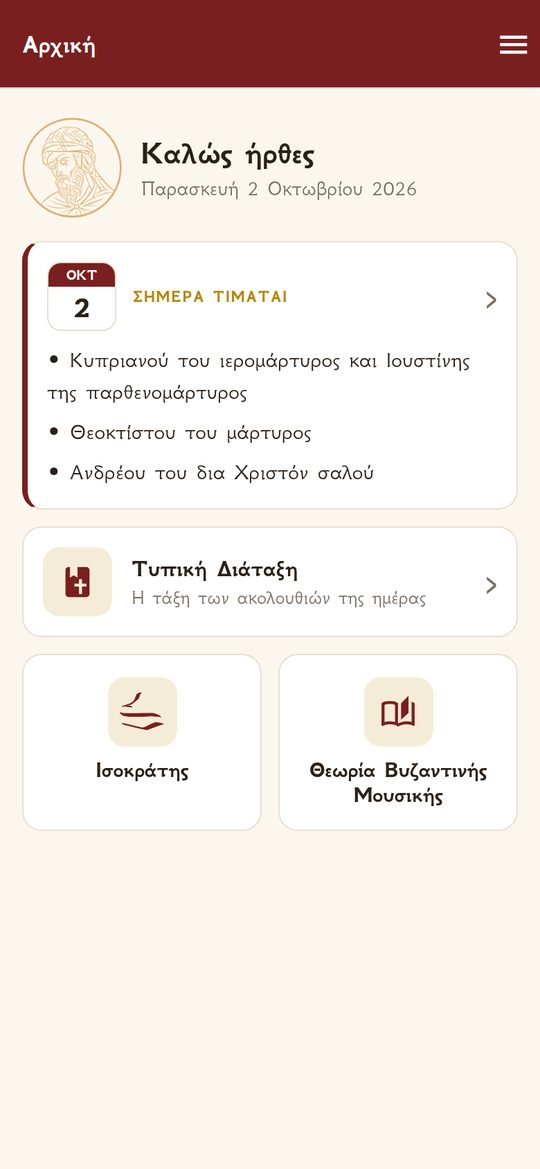
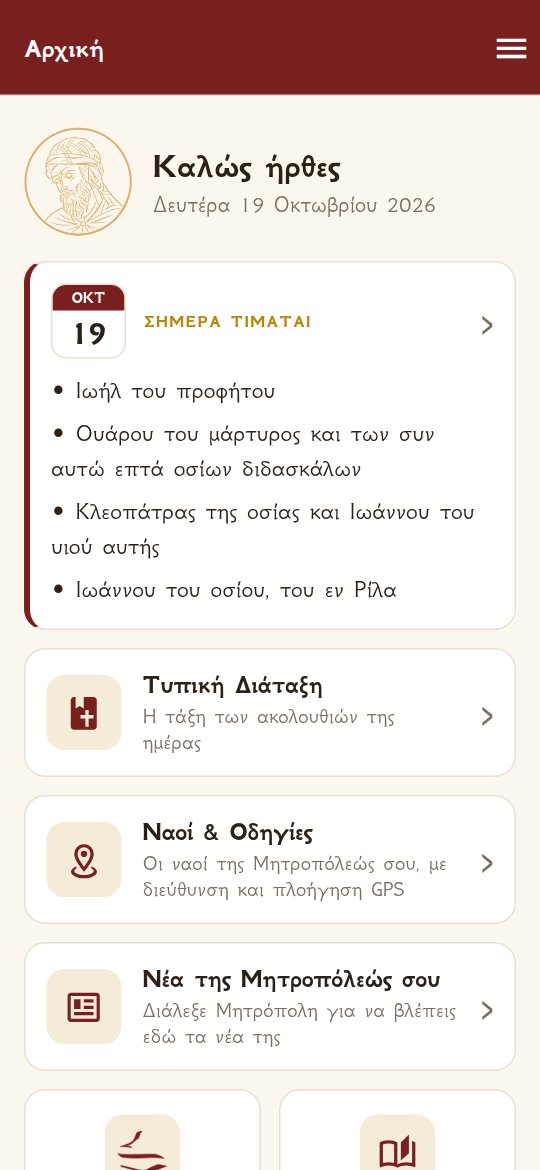
Ιστοσελίδα: νέες λειτουργίες (ύμνοι, μετρονόμος, κουρδιστής, πρόγραμμα, χορωδίες) και χρήση χωρίς λογαριασμό

diff --git a/index.html b/index.html
@@ -182,8 +182,8 @@
       <h1>Οκτώηχος</h1>
       <p class="tag"><span class="el">Ο σύντροφος του ψάλτη</span><span class="en">The chanter’s companion</span></p>
       <p class="lead">
-        <span class="el">Μια εφαρμογή για ψάλτες και για όσους αγαπούν την ψαλτική: εορτολόγιο με βίους αγίων και νηστείες, τυπική διάταξη κάθε ημέρας, ισοκράτης με τις κλίμακες κάθε ήχου, τα νέα όλων των Μητροπόλεων της Ελλάδος με χάρτη, και πάνω από 19.000 ναοί με πλοήγηση μέχρι την πόρτα.</span>
-        <span class="en">An app for chanters and everyone who loves Byzantine chant: a church calendar with lives of the saints and fasting days, the daily Typikon, an ison with the scale of every mode, news from every Metropolis of Greece with a map, and over 19,000 churches with directions to the door.</span>
+        <span class="el">Μια εφαρμογή για ψάλτες και για όσους αγαπούν την ψαλτική: εορτολόγιο με βίους αγίων και νηστείες, τυπική διάταξη κάθε ημέρας, ισοκράτης με τις κλίμακες κάθε ήχου, ύμνοι με «Αναλόγιο», μετρονόμος και κουρδιστής φωνής, το πρόγραμμά σου και οι χορωδίες σου, τα νέα όλων των Μητροπόλεων της Ελλάδος με χάρτη, και πάνω από 19.000 ναοί με πλοήγηση μέχρι την πόρτα.</span>
+        <span class="en">An app for chanters and everyone who loves Byzantine chant: a church calendar with lives of the saints and fasting days, the daily Typikon, an ison with the scale of every mode, hymns with a “Chant stand” mode, a metronome and a voice tuner, your own schedule and your choirs, news from every Metropolis of Greece with a map, and over 19,000 churches with directions to the door.</span>
       </p>
       <div class="btns">
         <a class="btn" href="#download">⬇ <span class="el">Λήψη για Android</span><span class="en">Download for Android</span></a>
@@ -202,7 +202,7 @@
 
     <section id="features">
       <h2><span class="el">Τι περιέχει</span><span class="en">What’s inside</span></h2>
-      <p class="sub"><span class="el">Όλα όσα χρειάζεται ο ψάλτης σε μία εφαρμογή: εορτολόγιο με βίους αγίων, τυπική διάταξη, ισοκράτης, τα νέα όλων των Μητροπόλεων και πάνω από 19.000 ναοί με χάρτη και πλοήγηση GPS — με απλό και καθαρό σχεδιασμό.</span><span class="en">Everything a chanter needs in one app: a church calendar with lives of the saints, the Typikon, an ison, news from every Metropolis and over 19,000 churches with a map and GPS directions — with a simple, clear design.</span></p>
+      <p class="sub"><span class="el">Όλα όσα χρειάζεται ο ψάλτης σε μία εφαρμογή: εορτολόγιο με βίους αγίων, τυπική διάταξη, ισοκράτης, ύμνοι, μετρονόμος, κουρδιστής, πρόγραμμα και χορωδίες, τα νέα όλων των Μητροπόλεων και πάνω από 19.000 ναοί με χάρτη και πλοήγηση GPS — με απλό και καθαρό σχεδιασμό.</span><span class="en">Everything a chanter needs in one app: a church calendar with lives of the saints, the Typikon, an ison, hymns, a metronome, a tuner, a schedule and choirs, news from every Metropolis and over 19,000 churches with a map and GPS directions — with a simple, clear design.</span></p>
 
       <div class="feature">
         <div>
@@ -316,7 +316,7 @@
             <li>Πάνω από 19.000 ναοί, μονές και παρεκκλήσια σε όλη την Ελλάδα — και το Άγιον Όρος — ομαδοποιημένοι ανά πόλη και χωριό.</li>
             <li>Πρώτα η έδρα της Μητροπόλεως, με τον μητροπολιτικό ναό στην κορυφή.</li>
             <li>Διάλεξε μία ή περισσότερες Μητροπόλεις από τον χάρτη ή τη λίστα· η επιλογή σου μένει για την επόμενη φορά.</li>
-            <li>Φωτογραφίες των ναών, όπου υπάρχουν (από το Wikimedia Commons, με αναφορά του δημιουργού).</li>
+            <li>Φωτογραφίες των ναών, όπου υπάρχουν (από το Wikimedia Commons ή από ψάλτες που τις στέλνουν μέσα από την εφαρμογή, πάντα με το όνομα του φωτογράφου).</li>
             <li>Η διεύθυνση κάθε ναού· με ένα πάτημα ανοίγει ο χάρτης.</li>
             <li>Κουμπί «Οδηγίες»: η εφαρμογή χαρτών του κινητού σε οδηγεί με GPS μέχρι τον ναό.</li>
             <li>Ιστοσελίδα, Facebook, Instagram, YouTube και τηλέφωνο του ναού, όπου υπάρχουν.</li>
@@ -326,7 +326,7 @@
             <li>Over 19,000 churches, monasteries and chapels across Greece — and Mount Athos — grouped by town and village.</li>
             <li>The see of the Metropolis first, with its cathedral at the top.</li>
             <li>Pick one or more Metropolises on the map or from the list; your choice is remembered for next time.</li>
-            <li>Photos of the churches where available (from Wikimedia Commons, with credit to the author).</li>
+            <li>Photos of the churches where available (from Wikimedia Commons or sent in by chanters through the app, always credited to the photographer).</li>
             <li>The address of each church; one tap opens the map.</li>
             <li>“Directions” button: your phone’s maps app guides you by GPS to the church.</li>
             <li>The church’s website, Facebook, Instagram, YouTube and phone, where available.</li>
@@ -336,14 +336,73 @@
         <div class="phone"><img src="screen-naoi.jpg" alt="Ναοί & Οδηγίες" loading="lazy" /></div>
       </div>
 
+      <div class="feature">
+        <div>
+          <div class="kicker"><span class="el">Ύμνοι &amp; Αναλόγιο</span><span class="en">Hymns &amp; Chant stand</span></div>
+          <h3><span class="el">Τα κείμενα που ψάλλεις, πάντα μπροστά σου</span><span class="en">The texts you chant, always in front of you</span></h3>
+          <ul class="el">
+            <li>Τα αναστάσιμα απολυτίκια και κοντάκια των οκτώ ήχων, εορτές, άγιοι, Θεία Λειτουργία και Εσπερινός.</li>
+            <li>«Σήμερα»: οι ύμνοι της ημέρας, με τον ήχο της εβδομάδας.</li>
+            <li>Λειτουργία «Αναλόγιο»: μεγάλα γράμματα σε σκούρο φόντο, η οθόνη δεν σβήνει, και με ένα πάτημα πας στον επόμενο ύμνο.</li>
+            <li>Αναζήτηση με λέξη και αγαπημένοι ύμνοι.</li>
+          </ul>
+          <ul class="en">
+            <li>The resurrection apolytikia and kontakia of the eight modes, feasts, saints, the Divine Liturgy and Vespers (in Greek).</li>
+            <li>“Today”: the hymns of the day, with the mode of the week.</li>
+            <li>“Chant stand” mode: large text on a dark background, the screen stays on, and one tap takes you to the next hymn.</li>
+            <li>Search by word and favourite hymns.</li>
+          </ul>
+        </div>
+        <div class="phone"><img src="screen-hymn.jpg" alt="Ύμνοι & Αναλόγιο" loading="lazy" /></div>
+      </div>
+
+      <div class="feature rev">
+        <div>
+          <div class="kicker"><span class="el">Μετρονόμος &amp; Κουρδιστής</span><span class="en">Metronome &amp; Tuner</span></div>
+          <h3><span class="el">Σωστή αγωγή, σωστός φθόγγος</span><span class="en">The right tempo, the right note</span></h3>
+          <ul class="el">
+            <li>Μετρονόμος με αργή, μέση και γρήγορη αγωγή, δίσημο, τρίσημο ή τετράσημο μέτρο, και «χτύπα τον ρυθμό».</li>
+            <li>Κουρδιστής φωνής: ψάλε έναν φθόγγο και δες πόσα μόρια απέχεις από τον σωστό, στην κλίμακα του ήχου που διάλεξες.</li>
+            <li>Ορίζεις σε ποια νότα είναι ο Νη, όπως στο αναλόγιό σου.</li>
+            <li>Ο ήχος του μικροφώνου αναλύεται μόνο στο κινητό· δεν ηχογραφείται και δεν στέλνεται πουθενά.</li>
+          </ul>
+          <ul class="en">
+            <li>Metronome with slow, medium and fast tempo, two, three or four beats per bar, and tap tempo.</li>
+            <li>Voice tuner: chant a note and see how many moria you are from the right one, in the scale of the mode you chose.</li>
+            <li>Set which note Ni is on, just like at your chant stand.</li>
+            <li>The microphone sound is analysed on the phone only; it is never recorded or sent anywhere.</li>
+          </ul>
+        </div>
+        <div class="phone"><img src="screen-tuner.jpg" alt="Κουρδιστής φωνής" loading="lazy" /></div>
+      </div>
+
+      <div class="feature">
+        <div>
+          <div class="kicker"><span class="el">Πρόγραμμα &amp; Χορωδίες</span><span class="en">Schedule &amp; Choirs</span></div>
+          <h3><span class="el">Πού ψάλλεις, πότε, και με ποιους</span><span class="en">Where you chant, when, and with whom</span></h3>
+          <ul class="el">
+            <li>«Το πρόγραμμά μου»: σε ποιους ναούς ψάλλεις, ποιες ημέρες και ποιες ακολουθίες, με υπενθύμιση πριν από κάθε ακολουθία.</li>
+            <li>Χορωδίες: ο πρωτοψάλτης φτιάχνει τη χορωδία και μοιράζει έναν κωδικό· όλοι βλέπουν το πρόγραμμα και τις ανακοινώσεις.</li>
+            <li>Widget στην αρχική οθόνη του κινητού (Android): ημερομηνία, ήχος της εβδομάδας, εορτή και η επόμενη ακολουθία σου.</li>
+          </ul>
+          <ul class="en">
+            <li>“My schedule”: which churches you chant at, on which days and for which services, with a reminder before each one.</li>
+            <li>Choirs: the protopsaltis creates the choir and shares a code; everyone sees the schedule and announcements.</li>
+            <li>Home-screen widget (Android): date, mode of the week, feast and your next service.</li>
+          </ul>
+        </div>
+        <div class="phone"><img src="screen-schedule.jpg" alt="Το πρόγραμμά μου" loading="lazy" /></div>
+      </div>
+
       <div class="cards">
         <div class="card"><h4><span class="el">Ελληνικά & English</span><span class="en">Greek & English</span></h4><p><span class="el">Μενού και οδηγίες και στα αγγλικά.</span><span class="en">Menus and user guide also in English.</span></p></div>
         <div class="card"><h4><span class="el">Οδηγίες με παραδείγματα</span><span class="en">Guide with examples</span></h4><p><span class="el">Μικρά κινούμενα παραδείγματα για κάθε λειτουργία.</span><span class="en">Small animated examples for every feature.</span></p></div>
         <div class="card"><h4><span class="el">Γρήγορη & ομαλή</span><span class="en">Fast & smooth</span></h4><p><span class="el">Έως 120 Hz σε κινητά που το υποστηρίζουν· οι χάρτες σχεδιάζονται απευθείας στην κάρτα γραφικών.</span><span class="en">Up to 120 Hz on phones that support it; the maps are drawn straight on the GPU.</span></p></div>
         <div class="card"><h4><span class="el">Αυτόματες ενημερώσεις</span><span class="en">Automatic updates</span></h4><p><span class="el">Νέο περιεχόμενο χωρίς να ξανακατεβάσεις την εφαρμογή.</span><span class="en">New content without reinstalling the app.</span></p></div>
         <div class="card"><h4><span class="el">Όπως τη θέλεις</span><span class="en">Your way</span></h4><p><span class="el">Μέγεθος γραμμάτων και διακόπτες για να κρύψεις όποια ενότητα δεν χρειάζεσαι.</span><span class="en">Text size, and switches to hide any section you don’t need.</span></p></div>
-        <div class="card"><h4><span class="el">Και χωρίς internet</span><span class="en">Works offline too</span></h4><p><span class="el">Ό,τι έχεις ανοίξει μία φορά (ναοί, νέα, χάρτης) κρατιέται στο κινητό και ανοίγει αμέσως.</span><span class="en">Whatever you have opened once (churches, news, map) stays on your phone and opens instantly.</span></p></div>
+        <div class="card"><h4><span class="el">Και χωρίς internet</span><span class="en">Works offline too</span></h4><p><span class="el">Ύμνοι, μετρονόμος, κουρδιστής και ό,τι έχεις ανοίξει μία φορά (ναοί, νέα, χάρτης) δουλεύουν και χωρίς σύνδεση.</span><span class="en">Hymns, metronome, tuner and whatever you have opened once (churches, news, map) work without a connection.</span></p></div>
         <div class="card"><h4><span class="el">Αναφορά λάθους</span><span class="en">Report a problem</span></h4><p><span class="el">Λείπει ένας ναός ή έχει λάθος στοιχεία; Στείλε αναφορά από την ίδια την εφαρμογή.</span><span class="en">A church missing or wrong? Send a report from within the app.</span></p></div>
+        <div class="card"><h4><span class="el">Και χωρίς λογαριασμό</span><span class="en">No account needed</span></h4><p><span class="el">Όλα ανοίγουν χωρίς εγγραφή· λογαριασμός χρειάζεται μόνο για χορωδίες, φωτογραφίες ναών και αναφορές.</span><span class="en">Everything opens without signing up; an account is only needed for choirs, church photos and reports.</span></p></div>
         <div class="card"><h4><span class="el">Σεβασμός στο απόρρητο</span><span class="en">Privacy first</span></h4><p><span class="el">Χωρίς διαφημίσεις, χωρίς παρακολούθηση. Διαγραφή λογαριασμού από την ίδια την εφαρμογή.</span><span class="en">No ads, no tracking. Delete your account from within the app.</span></p></div>
       </div>
     </section>
@@ -360,6 +419,11 @@
         <figure><div class="phone"><img src="screen-map.jpg" alt="" loading="lazy" /></div><figcaption><span class="el">Χάρτης Μητροπόλεων</span><span class="en">Map</span></figcaption></figure>
         <figure><div class="phone"><img src="screen-pick.jpg" alt="" loading="lazy" /></div><figcaption><span class="el">Επιλογή Μητροπόλεων</span><span class="en">Choosing Metropolises</span></figcaption></figure>
         <figure><div class="phone"><img src="screen-naoi.jpg" alt="" loading="lazy" /></div><figcaption><span class="el">Ναοί & Οδηγίες</span><span class="en">Churches & Directions</span></figcaption></figure>
+        <figure><div class="phone"><img src="screen-hymns.jpg" alt="" loading="lazy" /></div><figcaption><span class="el">Ύμνοι</span><span class="en">Hymns</span></figcaption></figure>
+        <figure><div class="phone"><img src="screen-hymn.jpg" alt="" loading="lazy" /></div><figcaption><span class="el">Αναλόγιο</span><span class="en">Chant stand</span></figcaption></figure>
+        <figure><div class="phone"><img src="screen-metronome.jpg" alt="" loading="lazy" /></div><figcaption><span class="el">Μετρονόμος</span><span class="en">Metronome</span></figcaption></figure>
+        <figure><div class="phone"><img src="screen-tuner.jpg" alt="" loading="lazy" /></div><figcaption><span class="el">Κουρδιστής φωνής</span><span class="en">Voice tuner</span></figcaption></figure>
+        <figure><div class="phone"><img src="screen-schedule.jpg" alt="" loading="lazy" /></div><figcaption><span class="el">Το πρόγραμμά μου</span><span class="en">My schedule</span></figcaption></figure>
       </div>
     </section>
 
@@ -368,7 +432,7 @@
       <p class="sub"><span class="el">Τρία απλά βήματα.</span><span class="en">Three simple steps.</span></p>
       <div class="steps">
         <div class="step"><h4><span class="el">Κατέβασε την εφαρμογή</span><span class="en">Download the app</span></h4><p><span class="el">Από το κουμπί «Λήψη» παρακάτω, για Android.</span><span class="en">From the “Download” button below, for Android.</span></p></div>
-        <div class="step"><h4><span class="el">Αποδέξου τους όρους &amp; συνδέσου</span><span class="en">Accept the terms &amp; sign in</span></h4><p><span class="el">Με το email σου (η πρόσβαση γίνεται προς το παρόν με πρόσκληση).</span><span class="en">With your email (access is currently by invitation).</span></p></div>
+        <div class="step"><h4><span class="el">Αποδέξου τους όρους</span><span class="en">Accept the terms</span></h4><p><span class="el">Συνέχισε χωρίς λογαριασμό ή κάνε εγγραφή με το email σου, για χορωδίες και φωτογραφίες ναών.</span><span class="en">Continue without an account, or sign up with your email for choirs and church photos.</span></p></div>
         <div class="step"><h4><span class="el">Διάλεξε τις Μητροπόλεις σου</span><span class="en">Pick your Metropolises</span></h4><p><span class="el">Από τον χάρτη ή τη λίστα — για τα νέα και για τους ναούς.</span><span class="en">On the map or from the list — for the news and the churches.</span></p></div>
       </div>
     </section>
@@ -380,21 +444,23 @@
         <details><summary><span class="el">Από πού είναι τα στοιχεία των ναών;</span><span class="en">Where does the church data come from?</span></summary><p><span class="el">Οι θέσεις και οι διευθύνσεις προέρχονται από το OpenStreetMap (© OpenStreetMap contributors). Αν κάποιος ναός λείπει ή έχει λάθος, μπορείς να στείλεις αναφορά από την εφαρμογή.</span><span class="en">Locations and addresses come from OpenStreetMap (© OpenStreetMap contributors). If a church is missing or wrong, you can send a report from the app.</span></p></details>
         <details><summary><span class="el">Ποιος έχει τραβήξει τις φωτογραφίες των ναών;</span><span class="en">Who took the church photos?</span></summary><p><span class="el">Είναι από το Wikimedia Commons, με άδειες ελεύθερης χρήσης. Πάνω σε κάθε φωτογραφία φαίνεται ο δημιουργός και η άδεια· με ένα πάτημα ανοίγει η σελίδα της.</span><span class="en">They come from Wikimedia Commons under free licences. Each photo shows its author and licence; one tap opens its page.</span></p></details>
         <details><summary><span class="el">Πώς επιλέγω περισσότερες από μία Μητροπόλεις;</span><span class="en">How do I choose more than one Metropolis?</span></summary><p><span class="el">Πάτησε πάνω στον χάρτη όσες θέλεις ή τσέκαρέ τες στη λίστα και πάτησε «Επιλεγμένες». Η επιλογή σου θυμάται για την επόμενη φορά· την αλλάζεις με το κουμπί «Αλλαγή».</span><span class="en">Tap as many as you like on the map or tick them in the list, then tap “Selected”. Your choice is remembered for next time; change it with the “Change” button.</span></p></details>
-        <details><summary><span class="el">Τι δεδομένα μου κρατάτε;</span><span class="en">What data do you keep about me?</span></summary><p><span class="el">Μόνο τα απολύτως απαραίτητα για τον λογαριασμό σου. Χωρίς διαφημίσεις και χωρίς παρακολούθηση· μπορείς να διαγράψεις τον λογαριασμό σου από την ίδια την εφαρμογή. Δες την <a href="privacy.html">Πολιτική Απορρήτου</a>.</span><span class="en">Only what is strictly necessary for your account. No ads and no tracking; you can delete your account from within the app. See the <a href="privacy.html">Privacy Policy</a>.</span></p></details>
-        <details><summary><span class="el">Υπάρχει για iPhone;</span><span class="en">Is there an iPhone version?</span></summary><p><span class="el">Προς το παρόν η εφαρμογή είναι για Android· η έκδοση για iPhone θα ακολουθήσει.</span><span class="en">For now the app is for Android; the iPhone version will follow.</span></p></details>
+        <details><summary><span class="el">Χρειάζομαι λογαριασμό;</span><span class="en">Do I need an account?</span></summary><p><span class="el">Όχι. Όλη η εφαρμογή λειτουργεί και χωρίς λογαριασμό. Λογαριασμός με email χρειάζεται μόνο για τις χορωδίες, για να στείλεις φωτογραφία ναού ή αναφορά, και για το προφίλ σου.</span><span class="en">No. The whole app works without an account. An email account is only needed for choirs, to send a church photo or a report, and for your profile.</span></p></details>
+        <details><summary><span class="el">Ο κουρδιστής ηχογραφεί τη φωνή μου;</span><span class="en">Does the tuner record my voice?</span></summary><p><span class="el">Όχι. Ο ήχος του μικροφώνου αναλύεται στιγμιαία στο κινητό για να βρεθεί ο φθόγγος· δεν αποθηκεύεται και δεν στέλνεται πουθενά. Το μικρόφωνο χρησιμοποιείται μόνο όσο είναι ανοιχτός ο κουρδιστής.</span><span class="en">No. The microphone sound is analysed instantly on the phone to find the note; it is never stored or sent anywhere. The microphone is used only while the tuner is open.</span></p></details>
+        <details><summary><span class="el">Τι δεδομένα μου κρατάτε;</span><span class="en">What data do you keep about me?</span></summary><p><span class="el">Αν φτιάξεις λογαριασμό, μόνο τα απολύτως απαραίτητα γι’ αυτόν. Χωρίς διαφημίσεις και χωρίς παρακολούθηση· μπορείς να διαγράψεις τον λογαριασμό σου από την ίδια την εφαρμογή. Δες την <a href="privacy.html">Πολιτική Απορρήτου</a>.</span><span class="en">If you create an account, only what is strictly necessary for it. No ads and no tracking; you can delete your account from within the app. See the <a href="privacy.html">Privacy Policy</a>.</span></p></details>
+        <details><summary><span class="el">Υπάρχει για iPhone;</span><span class="en">Is there an iPhone version?</span></summary><p><span class="el">Η έκδοση για iPhone και iPad ετοιμάζεται για το App Store και θα είναι διαθέσιμη σύντομα.</span><span class="en">The iPhone and iPad version is being prepared for the App Store and will be available soon.</span></p></details>
       </div>
     </section>
 
     <section id="download">
       <div class="download">
         <h2><span class="el">Λήψη</span><span class="en">Download</span></h2>
-        <p class="sub"><span class="el">Διαθέσιμο για Android. Η έκδοση για iPhone θα ακολουθήσει.</span><span class="en">Available for Android. The iPhone version will follow.</span></p>
+        <p class="sub"><span class="el">Διαθέσιμο για Android. Η έκδοση για iPhone και iPad έρχεται σύντομα στο App Store.</span><span class="en">Available for Android. The iPhone and iPad version is coming soon to the App Store.</span></p>
         <div class="btns">
           <a class="btn" id="apk-link" href="#">⬇ <span class="el">Κατέβασε το APK για Android</span><span class="en">Download the Android APK</span></a>
         </div>
         <p class="note">
-          <span class="el">Η πρόσβαση στην εφαρμογή γίνεται προς το παρόν με πρόσκληση. Για πρόσβαση, επικοινώνησε μαζί μας.</span>
-          <span class="en">Access is currently by invitation. Please contact us for access.</span>
+          <span class="el">Ανοίγει αμέσως, και χωρίς λογαριασμό. Για απορίες ή προτάσεις, γράψε μας στο email που θα βρεις παρακάτω.</span>
+          <span class="en">It opens straight away, even without an account. For questions or suggestions, write to us at the email address below.</span>
         </p>
       </div>
     </section>
